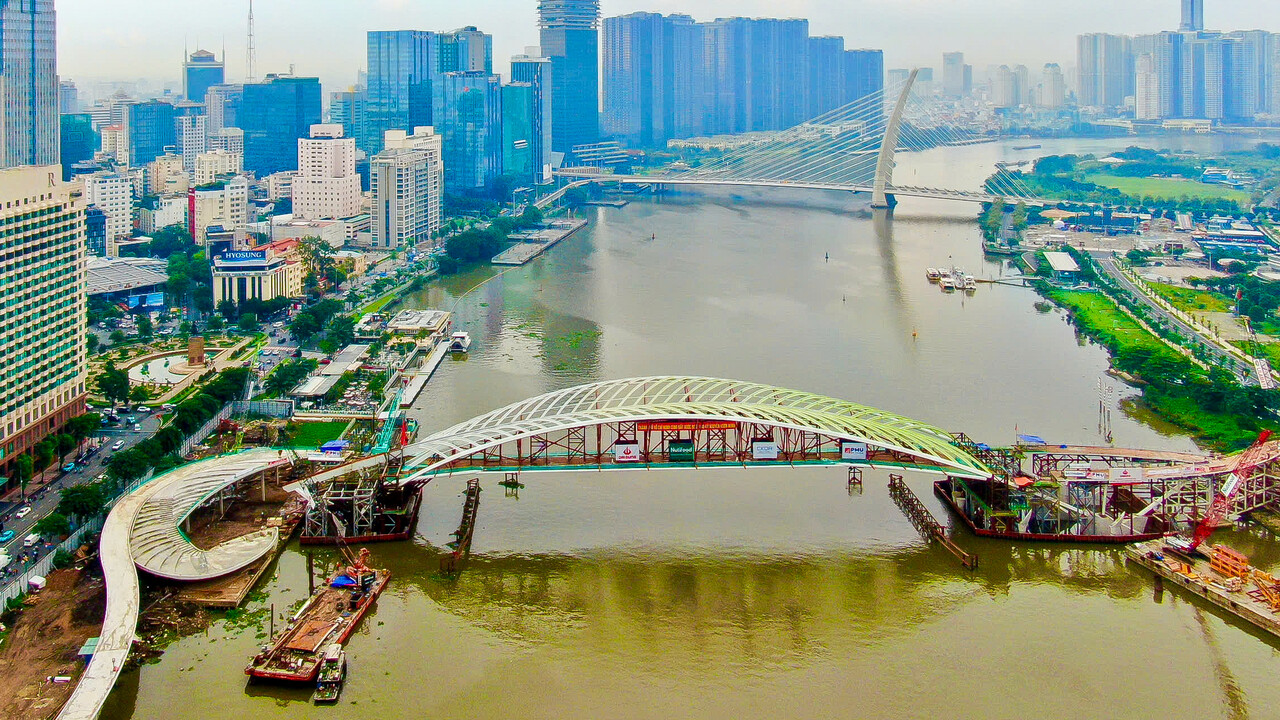
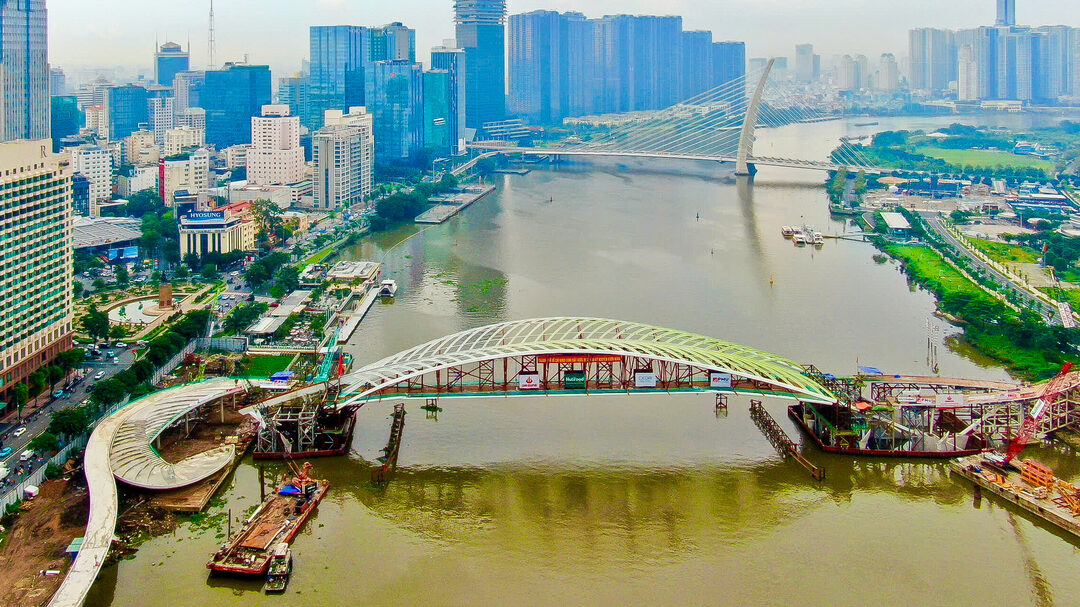
update

diff --git a/src/components/HeroSection.tsx b/src/components/HeroSection.tsx
@@ -18,26 +18,42 @@ export const HeroSection: React.FC<HeroSectionProps> = () => {
         background: '#0a0a0b',
       }}
     >
-      {/* Background Image - Crisp aerial view of pedestrian bridge over Saigon River */}
-      <img
-        src="/assets/aistudio/1792657085594_3081204943641323774_g5073564722849541716_17d9c0fa5c20d6b2de9dd8c5fd4d376b_25b5c1b4.jpg"
-        alt="Toàn cảnh vị trí cầu đi bộ qua sông Sài Gòn"
-        loading="eager"
-        fetchPriority="high"
-        decoding="async"
-        className="absolute inset-0 w-full h-full object-cover pointer-events-none select-none z-0"
-        style={{
-          position: 'absolute',
-          inset: 0,
-          width: '100%',
-          height: '100%',
-          objectFit: 'cover',
-          objectPosition: 'center 40%',
-          pointerEvents: 'none',
-          userSelect: 'none',
-          WebkitUserSelect: 'none',
-        }}
-      />
+      {/* Background Image - Responsive Crisp Aerial View of Pedestrian Bridge */}
+      <picture className="absolute inset-0 w-full h-full pointer-events-none select-none z-0">
+        <source
+          media="(max-width: 768px)"
+          srcSet="/assets/aistudio/hero_mobile.webp"
+          type="image/webp"
+        />
+        <source
+          media="(max-width: 768px)"
+          srcSet="/assets/aistudio/hero_mobile.jpg"
+          type="image/jpeg"
+        />
+        <source
+          srcSet="/assets/aistudio/hero_optimized.webp"
+          type="image/webp"
+        />
+        <img
+          src="/assets/aistudio/hero_optimized.jpg"
+          alt="Toàn cảnh vị trí cầu đi bộ qua sông Sài Gòn"
+          loading="eager"
+          fetchPriority="high"
+          decoding="async"
+          className="absolute inset-0 w-full h-full object-cover pointer-events-none select-none z-0"
+          style={{
+            position: 'absolute',
+            inset: 0,
+            width: '100%',
+            height: '100%',
+            objectFit: 'cover',
+            objectPosition: 'center 40%',
+            pointerEvents: 'none',
+            userSelect: 'none',
+            WebkitUserSelect: 'none',
+          }}
+        />
+      </picture>
 
       {/* Title Container - Positioned in the Top 1/4 of the Hero Area */}
       <div className="relative z-20 max-w-5xl mx-auto w-full text-center flex flex-col items-center justify-start space-y-1 sm:space-y-1.5 pt-14 sm:pt-20 lg:pt-28">

diff --git a/index.html b/index.html
@@ -10,6 +10,8 @@
     <meta property="og:type" content="website" />
     <meta name="twitter:card" content="summary_large_image" />
     <link rel="preconnect" href="https://fonts.googleapis.com">
+    <link rel="preconnect" href="https://fonts.gstatic.com" crossorigin>
+    <link href="https://fonts.googleapis.com/css2?family=Be+Vietnam+Pro:ital,wght@0,300;0,400;0,500;0,600;0,700;0,800;0,900;1,400;1,600&family=Plus+Jakarta+Sans:ital,wght@0,400;0,600;0,700;0,800;1,400&display=swap" rel="stylesheet">
     <link rel="preload" href="/assets/aistudio/hero_mobile.webp" as="image" type="image/webp" media="(max-width: 640px)" fetchpriority="high">
     <link rel="preload" href="/assets/aistudio/1792657085594_3081204943641323774_g5073564722849541716_17d9c0fa5c20d6b2de9dd8c5fd4d376b_25b5c1b4.webp" as="image" type="image/webp" media="(min-width: 641px)" fetchpriority="high">
   </head>

diff --git a/src/index.css b/src/index.css
@@ -17,7 +17,7 @@
     box-sizing: border-box;
     background-color: #0a0a0b;
     color: #f8fafc;
-    font-family: 'Archivo', 'Be Vietnam Pro', system-ui, -apple-system, sans-serif;
+    font-family: 'Be Vietnam Pro', 'Plus Jakarta Sans', system-ui, -apple-system, BlinkMacSystemFont, 'Segoe UI', Roboto, sans-serif;
   }
 
   *, *::before, *::after {
@@ -35,7 +35,10 @@
   }
 
   .font-display {
-    font-family: 'Archivo', 'Be Vietnam Pro', sans-serif;
+    font-family: 'Be Vietnam Pro', 'Plus Jakarta Sans', system-ui, sans-serif;
+  }
+  .font-sans {
+    font-family: 'Be Vietnam Pro', 'Plus Jakarta Sans', system-ui, sans-serif;
   }
 }
 
